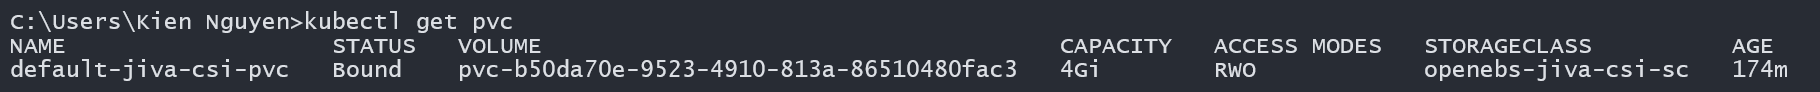
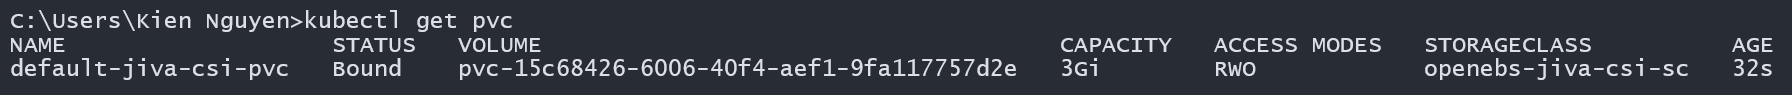
fixed bug csi driver not found

diff --git a/docs/Group_2_SS23_ProjectReport.md b/docs/Group_2_SS23_ProjectReport.md
@@ -415,13 +415,11 @@ Now, we will configure the ``Jiva Operator`` (`OpenEBS`) to dynamically provisio
   helm repo update
 
   # Install
-  helm install openebs-jiva openebs-jiva/jiva --namespace openebs --create-namespace
+  helm install openebs-jiva openebs-jiva/jiva --namespace default --set-string csiNode.kubeletDir="/var/lib/k0s/kubelet/"
   ```
-  Expected installation results:
+  Expected installation result:
 
   ![](img/dss1.png)
-
-  ![](img/dss3.png)
 
 - Apply the scripts listed [here](https://github.com/ccfrauasgr2/pet-detection/tree/main/scripts/jiva):
   - The script `jivaVolumePolicy.yaml` creates a Jiva Volume Policy in which various policies for provisioning Jiva Volumes are declared. The policies declared in this script are [Replica STS Pod Anti-Affinity](https://github.com/openebs/jiva-operator/blob/0b3ead63dffddd36c80a4ba8de5a24a470cd6feb/docs/tutorials/policies.md#replica-sts-pod-anti-affinity) and [Target Pod Affinity](https://github.com/openebs/jiva-operator/blob/0b3ead63dffddd36c80a4ba8de5a24a470cd6feb/docs/tutorials/policies.md#target-pod-affinity).
